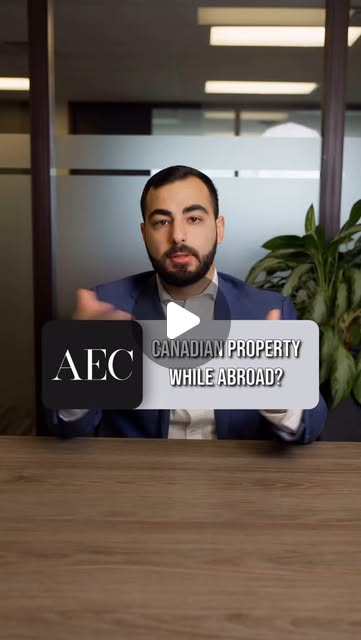
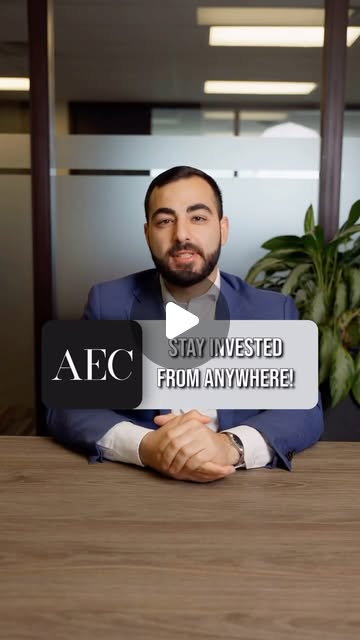
Update AEC Financial Group reel thumbnails
Replace duplicate reel 1 and reel 4 thumbnails with distinct Instagram reels.

Changed region(s): [[0.0306, 0.25, 0.9167, 0.7812], [0.1833, 0.4375, 0.3667, 0.5]]

diff --git a/orko-media/portfolio.html b/orko-media/portfolio.html
@@ -152,10 +152,10 @@
       <!-- Page 4 -->
       <div class="work-page" data-section="short-form" data-page="3" data-title="AEC Financial Group">
         <div class="port-grid port-grid--portrait">
-          <a class="port-item port-item--portrait fade-up" href="https://www.instagram.com/reel/DKhR7disBpM/" target="_blank" rel="noopener" style="background-image:url('images/aec_reel1.jpg');background-size:cover;background-position:center;display:block;text-decoration:none"><div class="port-item__over"><h4>AEC Financial Group</h4><span class="tag">Short Form</span></div></a>
+          <a class="port-item port-item--portrait fade-up" href="https://www.instagram.com/reel/DJbwS9UxZV4/" target="_blank" rel="noopener" style="background-image:url('images/aec_reel1.jpg');background-size:cover;background-position:center;display:block;text-decoration:none"><div class="port-item__over"><h4>AEC Financial Group</h4><span class="tag">Short Form</span></div></a>
           <a class="port-item port-item--portrait fade-up" href="https://www.instagram.com/reel/DRKP7z4DRGj/" target="_blank" rel="noopener" style="background-image:url('images/aec_reel2.jpg');background-size:cover;background-position:center;display:block;text-decoration:none"><div class="port-item__over"><h4>AEC Financial Group</h4><span class="tag">Short Form</span></div></a>
           <a class="port-item port-item--portrait fade-up" href="https://www.instagram.com/reel/DMfc4WBxPTF/" target="_blank" rel="noopener" style="background-image:url('images/aec_reel3.jpg');background-size:cover;background-position:center;display:block;text-decoration:none"><div class="port-item__over"><h4>AEC Financial Group</h4><span class="tag">Short Form</span></div></a>
-          <a class="port-item port-item--portrait fade-up" href="https://www.instagram.com/reel/DKhR7disBpM/" target="_blank" rel="noopener" style="background-image:url('images/aec_reel4.jpg');background-size:cover;background-position:center;display:block;text-decoration:none"><div class="port-item__over"><h4>AEC Financial Group</h4><span class="tag">Short Form</span></div></a>
+          <a class="port-item port-item--portrait fade-up" href="https://www.instagram.com/reel/DKwuvEGxo90/" target="_blank" rel="noopener" style="background-image:url('images/aec_reel4.jpg');background-size:cover;background-position:center;display:block;text-decoration:none"><div class="port-item__over"><h4>AEC Financial Group</h4><span class="tag">Short Form</span></div></a>
         </div>
       </div>
 
